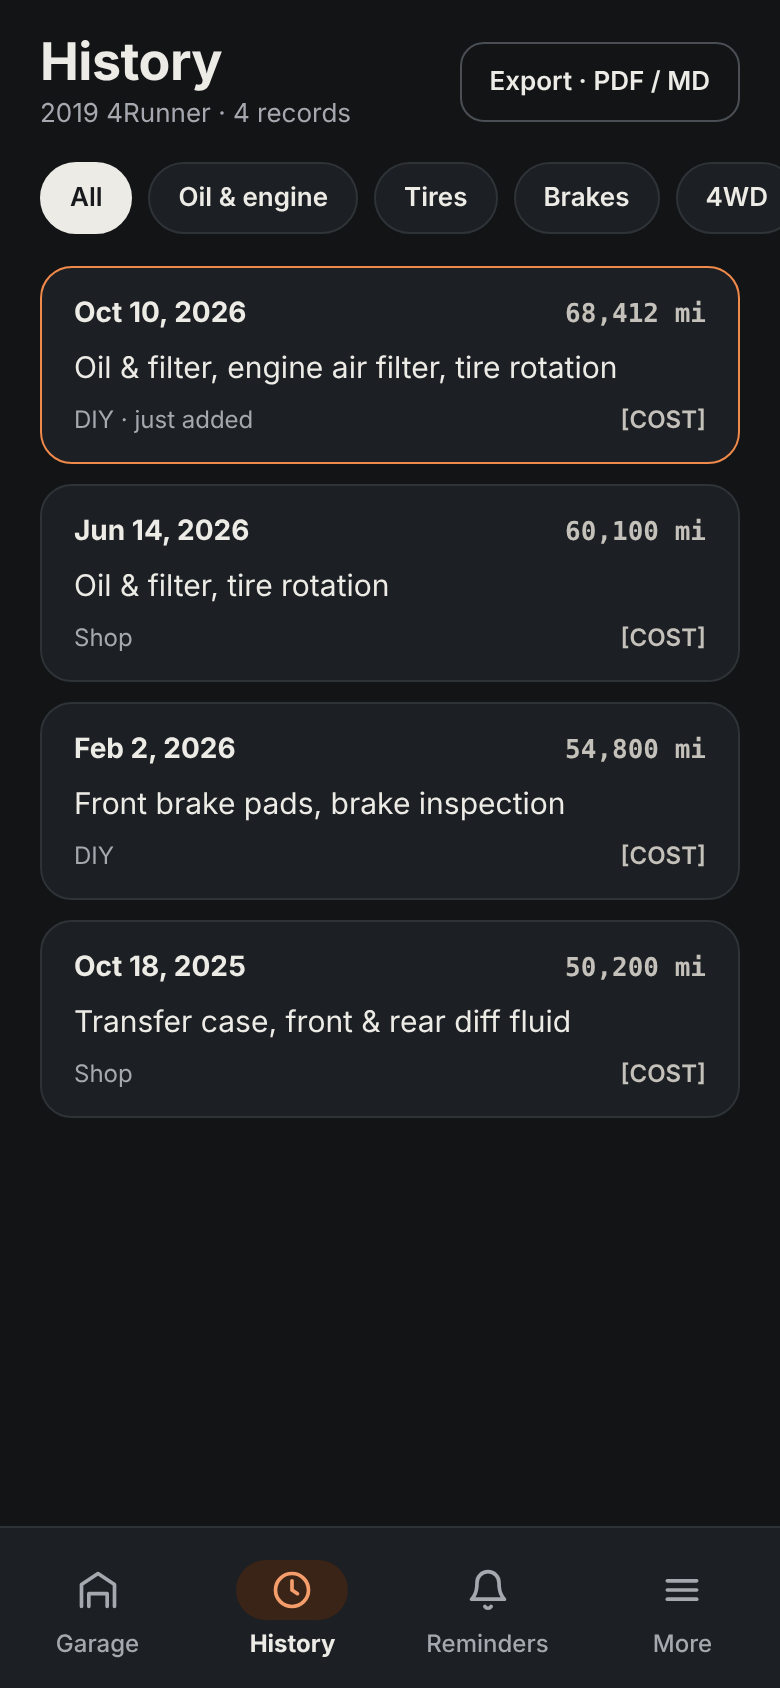
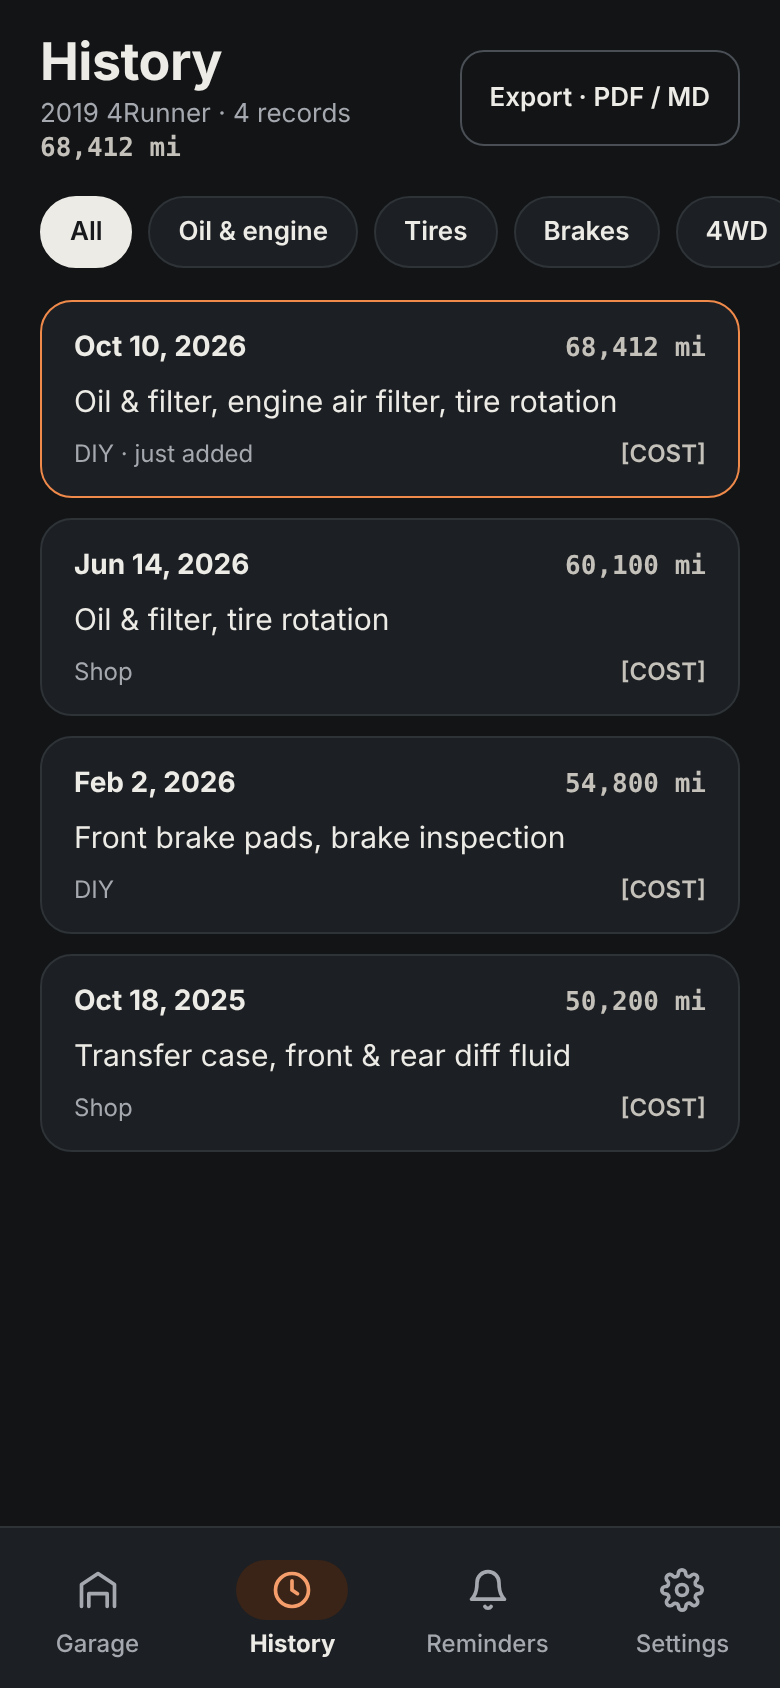
docs(design): History shows the odometer, header as built
Adds the vehicle's odometer under the subtitle, and brings the header up
to what the app draws now: timeline/list icons beside Export, sort
controls on the subtitle row, the spending line and the search field.
The renders are Claude Design's from before the header catch-up.

diff --git a/design/source/History.dc.html b/design/source/History.dc.html
@@ -15,25 +15,35 @@ a{color:#C2410C}a:hover{color:#9A3412}
 </style>
 </helmet>
 <div style="width: 390px; height: 844px; box-sizing: border-box; background: #F4F3EF; color: #17191C; font-family: 'IBM Plex Sans', system-ui, sans-serif; display: flex; flex-direction: column">
-  <div style="display: flex; align-items: center; justify-content: space-between; padding: 16px 20px 4px 20px">
-    <div style="display: flex; flex-direction: column; gap: 2px">
-      <div style="font-size: 26px; font-weight: 700; letter-spacing: -0.01em">History</div>
-      <div style="font-size: 13px; color: #5A5F66">2019 4Runner · {{shown}} records</div>
+  <div style="display: flex; flex-direction: column; gap: 2px; padding: 16px 20px 8px 20px">
+    <div style="display: flex; align-items: center; gap: 4px">
+      <div style="flex: 1; font-size: 26px; font-weight: 700; letter-spacing: -0.01em">History</div>
+      <div role="tablist" aria-label="History view" style="display: flex; gap: 4px">
+        <a href="Timeline.dc.html" role="tab" aria-selected="false" aria-label="Timeline" style="width: 48px; height: 48px; border-radius: 12px; border: 0; padding: 0; background: transparent; display: flex; align-items: center; justify-content: center; flex-shrink: 0; color: #3A3E44"><svg width="22" height="22" viewBox="0 0 24 24" fill="none" stroke="currentColor" stroke-width="2" stroke-linecap="round" stroke-linejoin="round" aria-hidden="true"><path d="M3 17l5-6 4 4 5-7 4 4"></path></svg></a>
+        <a href="History.dc.html" role="tab" aria-selected="true" aria-label="List" style="width: 48px; height: 48px; border-radius: 12px; border: 0; padding: 0; display: flex; align-items: center; justify-content: center; flex-shrink: 0; background: #FBE9DF; color: #C2410C"><svg width="22" height="22" viewBox="0 0 24 24" fill="none" stroke="currentColor" stroke-width="2" stroke-linecap="round" aria-hidden="true"><path d="M9 7h11M9 12h11M9 17h11"></path><path d="M4.5 7h.01M4.5 12h.01M4.5 17h.01"></path></svg></a>
+      </div>
+      <a href="ExportSheet.dc.html" style="height: 48px; flex-shrink: 0; padding: 0 14px; border-radius: 12px; border: 1.5px solid #B9B6AE; display: flex; align-items: center; font-size: 13px; font-weight: 600; color: #17191C; text-decoration: none">Export · PDF / MD</a>
     </div>
-    <a href="ExportSheet.dc.html" style="height: 48px; padding: 0 14px; border-radius: 12px; border: 1.5px solid #B9B6AE; display: flex; align-items: center; font-size: 13px; font-weight: 600; color: #17191C; text-decoration: none">Export · PDF / MD</a>
-  </div>
-
-  <div style="padding: 12px 20px 0 20px">
-    <div role="tablist" aria-label="History view" style="display: grid; grid-template-columns: repeat(2, minmax(0, 1fr)); gap: 4px; padding: 4px; border-radius: 12px; background: #E9E7E0">
-      <a href="History.dc.html" role="tab" aria-selected="true" style="height: 40px; border-radius: 9px; display: flex; align-items: center; justify-content: center; font-size: 14px; font-weight: 600; color: #17191C; text-decoration: none; background: #FFFFFF; box-shadow: 0 1px 3px rgba(23,25,28,0.18)">List</a>
-      <a href="Timeline.dc.html" role="tab" aria-selected="false" style="height: 40px; border-radius: 9px; display: flex; align-items: center; justify-content: center; font-size: 14px; font-weight: 600; color: #3A3E44; text-decoration: none">Timeline</a>
+    <div style="display: flex; align-items: center">
+      <div style="flex: 1; font-size: 14px; color: #5A5F66">2019 4Runner · {{shown}} records</div>
+      <button aria-label="Sort by date" style="width: 48px; height: 48px; border-radius: 12px; border: 0; padding: 0; background: transparent; display: flex; align-items: center; justify-content: center; flex-shrink: 0; color: #5A5F66"><svg width="22" height="22" viewBox="0 0 24 24" fill="none" stroke="currentColor" stroke-width="2" stroke-linecap="round" aria-hidden="true"><path d="M4 7h16M4 12h11M4 17h6"></path></svg></button>
+      <button aria-label="Newest first" style="width: 48px; height: 48px; border-radius: 12px; border: 0; padding: 0; background: transparent; display: flex; align-items: center; justify-content: center; flex-shrink: 0; color: #5A5F66"><svg width="22" height="22" viewBox="0 0 24 24" fill="none" stroke="currentColor" stroke-width="2" stroke-linecap="round" stroke-linejoin="round" aria-hidden="true"><path d="M12 5v14M6 13l6 6 6-6"></path></svg></button>
     </div>
+    <div aria-label="Current odometer 68,412 miles" style="font-family: 'IBM Plex Mono', ui-monospace, monospace; font-size: 14px; font-weight: 600; color: #17191C">68,412 mi</div>
+    <div style="padding-top: 6px; font-size: 13px; line-height: 1.45; color: #5A5F66">[COST] this year · [COST] since Oct 2025 · from 4 of 4 records</div>
   </div>
 
   <div style="display: flex; gap: 8px; padding: 12px 20px; overflow-x: auto">
     <sc-for list="{{filters}}" as="f" hint-placeholder-count="5">
       <button onClick="{{f.pick}}" aria-pressed="{{f.active}}" style="height: 36px; padding: 0 14px; border-radius: 999px; flex-shrink: 0; font-family: inherit; font-size: 13px; font-weight: 600; border: 1.5px solid {{f.border}}; background: {{f.bg}}; color: {{f.fg}}">{{f.label}}</button>
     </sc-for>
+  </div>
+
+  <div style="padding: 0 20px 10px 20px">
+    <div role="search" style="height: 52px; border-radius: 12px; background: #FFFFFF; display: flex; align-items: center; gap: 14px; padding: 0 16px; color: #5A5F66; font-size: 15px">
+      <svg width="22" height="22" viewBox="0 0 24 24" fill="none" stroke="currentColor" stroke-width="2.2" stroke-linecap="round" aria-hidden="true"><circle cx="10.5" cy="10.5" r="6"></circle><path d="M15 15l5 5"></path></svg>
+      Search records
+    </div>
   </div>
 
   <div style="flex: 1; display: flex; flex-direction: column; gap: 10px; padding: 4px 20px 16px 20px; overflow: hidden">

diff --git a/design/source/HistoryDark.dc.html b/design/source/HistoryDark.dc.html
@@ -15,18 +15,35 @@ a{color:#F59E6B}a:hover{color:#FDBA74}
 </style>
 </helmet>
 <div style="width: 390px; height: 844px; box-sizing: border-box; background: #121416; color: #EDEBE6; font-family: 'IBM Plex Sans', system-ui, sans-serif; display: flex; flex-direction: column">
-  <div style="display: flex; align-items: center; justify-content: space-between; padding: 16px 20px 4px 20px">
-    <div style="display: flex; flex-direction: column; gap: 2px">
-      <div style="font-size: 26px; font-weight: 700; letter-spacing: -0.01em">History</div>
-      <div style="font-size: 13px; color: #A5A9AF">2019 4Runner · {{shown}} records</div>
+  <div style="display: flex; flex-direction: column; gap: 2px; padding: 16px 20px 8px 20px">
+    <div style="display: flex; align-items: center; gap: 4px">
+      <div style="flex: 1; font-size: 26px; font-weight: 700; letter-spacing: -0.01em">History</div>
+      <div role="tablist" aria-label="History view" style="display: flex; gap: 4px">
+        <a href="Timeline.dc.html" role="tab" aria-selected="false" aria-label="Timeline" style="width: 48px; height: 48px; border-radius: 12px; border: 0; padding: 0; background: transparent; display: flex; align-items: center; justify-content: center; flex-shrink: 0; color: #C4C1BA"><svg width="22" height="22" viewBox="0 0 24 24" fill="none" stroke="currentColor" stroke-width="2" stroke-linecap="round" stroke-linejoin="round" aria-hidden="true"><path d="M3 17l5-6 4 4 5-7 4 4"></path></svg></a>
+        <a href="History.dc.html" role="tab" aria-selected="true" aria-label="List" style="width: 48px; height: 48px; border-radius: 12px; border: 0; padding: 0; display: flex; align-items: center; justify-content: center; flex-shrink: 0; background: #3A2418; color: #F59E6B"><svg width="22" height="22" viewBox="0 0 24 24" fill="none" stroke="currentColor" stroke-width="2" stroke-linecap="round" aria-hidden="true"><path d="M9 7h11M9 12h11M9 17h11"></path><path d="M4.5 7h.01M4.5 12h.01M4.5 17h.01"></path></svg></a>
+      </div>
+      <button aria-label="Export history" style="height: 48px; flex-shrink: 0; padding: 0 14px; border-radius: 12px; border: 1.5px solid #4A4F55; background: transparent; font-family: inherit; font-size: 13px; font-weight: 600; color: #EDEBE6">Export · PDF / MD</button>
     </div>
-    <button aria-label="Export history" style="height: 48px; padding: 0 14px; border-radius: 12px; border: 1.5px solid #4A4F55; background: transparent; font-family: inherit; font-size: 13px; font-weight: 600; color: #EDEBE6">Export · PDF / MD</button>
+    <div style="display: flex; align-items: center">
+      <div style="flex: 1; font-size: 14px; color: #A5A9AF">2019 4Runner · {{shown}} records</div>
+      <button aria-label="Sort by date" style="width: 48px; height: 48px; border-radius: 12px; border: 0; padding: 0; background: transparent; display: flex; align-items: center; justify-content: center; flex-shrink: 0; color: #A5A9AF"><svg width="22" height="22" viewBox="0 0 24 24" fill="none" stroke="currentColor" stroke-width="2" stroke-linecap="round" aria-hidden="true"><path d="M4 7h16M4 12h11M4 17h6"></path></svg></button>
+      <button aria-label="Newest first" style="width: 48px; height: 48px; border-radius: 12px; border: 0; padding: 0; background: transparent; display: flex; align-items: center; justify-content: center; flex-shrink: 0; color: #A5A9AF"><svg width="22" height="22" viewBox="0 0 24 24" fill="none" stroke="currentColor" stroke-width="2" stroke-linecap="round" stroke-linejoin="round" aria-hidden="true"><path d="M12 5v14M6 13l6 6 6-6"></path></svg></button>
+    </div>
+    <div aria-label="Current odometer 68,412 miles" style="font-family: 'IBM Plex Mono', ui-monospace, monospace; font-size: 14px; font-weight: 600; color: #EDEBE6">68,412 mi</div>
+    <div style="padding-top: 6px; font-size: 13px; line-height: 1.45; color: #A5A9AF">[COST] this year · [COST] since Oct 2025 · from 4 of 4 records</div>
   </div>
 
   <div style="display: flex; gap: 8px; padding: 12px 20px; overflow-x: auto">
     <sc-for list="{{filters}}" as="f" hint-placeholder-count="5">
       <button onClick="{{f.pick}}" aria-pressed="{{f.active}}" style="height: 36px; padding: 0 14px; border-radius: 999px; flex-shrink: 0; font-family: inherit; font-size: 13px; font-weight: 600; border: 1.5px solid {{f.border}}; background: {{f.bg}}; color: {{f.fg}}">{{f.label}}</button>
     </sc-for>
+  </div>
+
+  <div style="padding: 0 20px 10px 20px">
+    <div role="search" style="height: 52px; border-radius: 12px; background: #1C1F23; display: flex; align-items: center; gap: 14px; padding: 0 16px; color: #A5A9AF; font-size: 15px">
+      <svg width="22" height="22" viewBox="0 0 24 24" fill="none" stroke="currentColor" stroke-width="2.2" stroke-linecap="round" aria-hidden="true"><circle cx="10.5" cy="10.5" r="6"></circle><path d="M15 15l5 5"></path></svg>
+      Search records
+    </div>
   </div>
 
   <div style="flex: 1; display: flex; flex-direction: column; gap: 10px; padding: 4px 20px 16px 20px; overflow: hidden">
